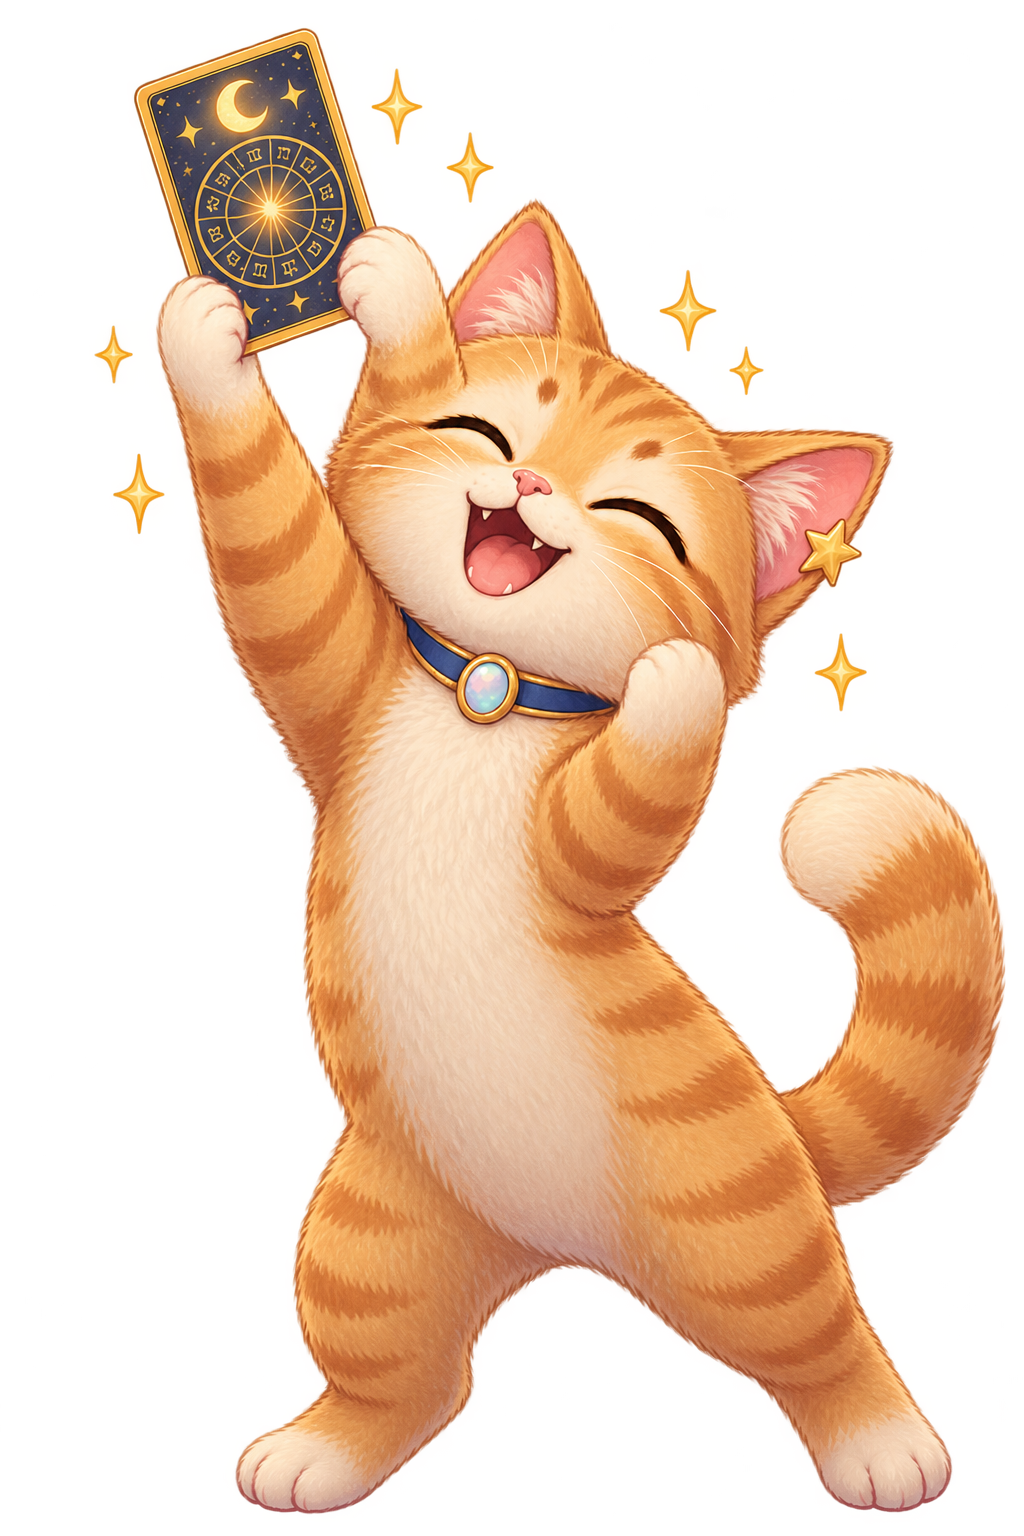
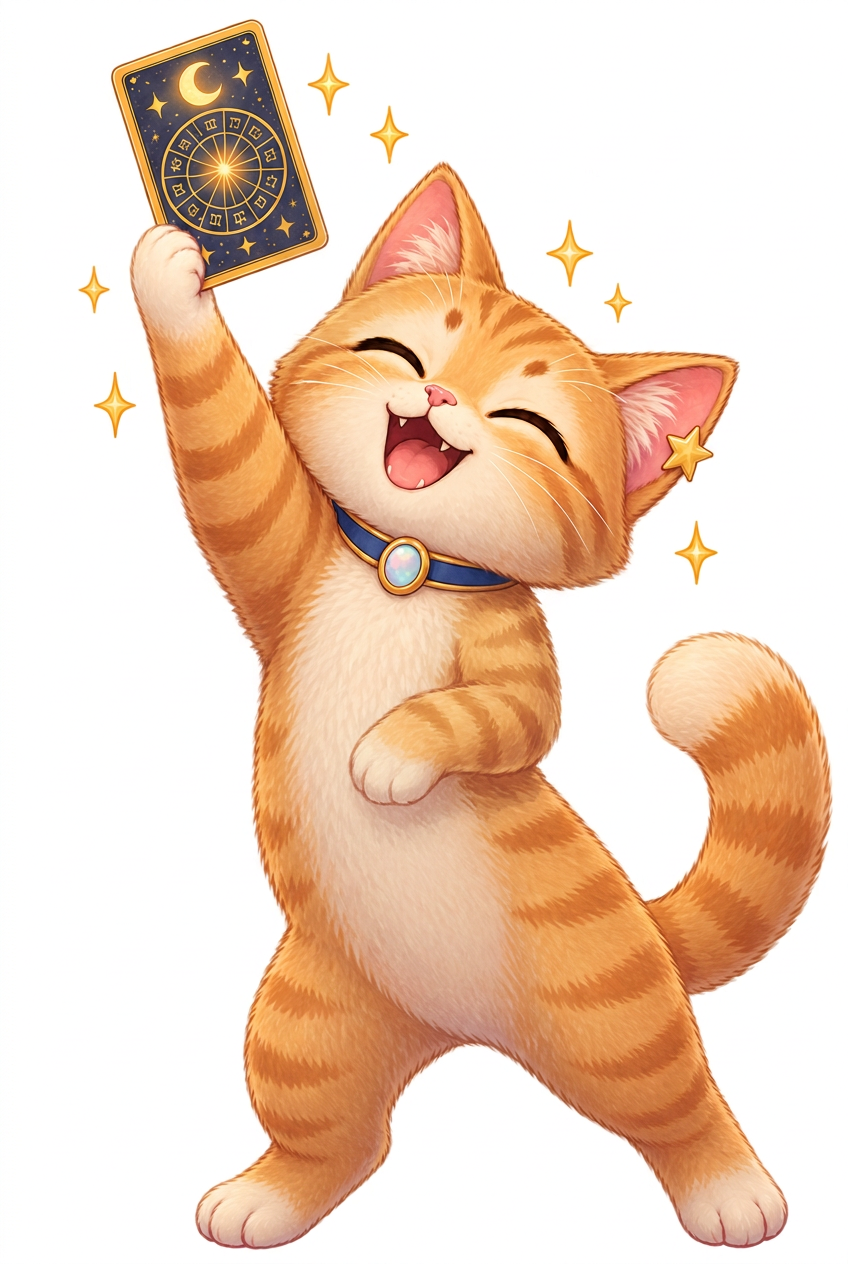
feat: update Mira artwork and assets for consistency and clarity

diff --git a/TASKS.md b/TASKS.md
@@ -38,26 +38,37 @@ Goal (see [concept.md](concept.md) §2, §3): Mira from the new character art (`
 
 ---
 
-## New pose art (2026-10-06)
+## New Mira art (2026-10-06) ✅
 
-- **Four new illustrations** in `artwork/` (calm, cautious, playful, radiant; 1024 × 1536, transparent, clean edges): cropped to the figure with a 16 px margin, scaled to 900 px height, WebP with alpha (115–167 KB) in `web/src/assets/poses/`. Much sharper than the first set; calm is now a meditating Mira without the card. Its own sparkles replace the app's generated twinkles. Checked in the pose gallery and on Today.
-- **Paths:** the source images moved to `artwork/`; README and concept updated (the key visual is `artwork/astrocat.png`). `mira-poses.png` (source of the current sleepy pose) is no longer in the repo; only `web/src/assets/poses/sleepy.webp` remains.
-- **Sleepy (added the same day):** `artwork/sleepy.png` (1145 × 1374), cropped and exported at 1000 px width (205 KB); the "z z z" sits above her head next to the ear star, as before. Checked in the pose gallery.
-- **Standing Mira (added the same day):** `artwork/standing.png` (1024 × 1536) replaces `web/src/assets/mira.webp` (900 px height, 112 KB) on login, onboarding and the loading screen. The loading effect was adjusted: a golden halo pulses *behind* the raised card (positioned for the new card; the old effect lit the card from the front, which only turned the dark card gray). All app images are now in one style.
-- **Not updated:** the app icons still show Mira's head from the first character art (`mira-character.png`).
+All Mira images in the app now come from one set of illustrations in `artwork/`, in one style: crisp outlines, a dark card with golden lines, no glow halo.
 
-### Prompts for the sleepy pose and the standing Mira (new style)
+| App image | Source in `artwork/` | Source size | App file | Export |
+| --- | --- | --- | --- | --- |
+| sleepy | `sleepy.png` | 1145 × 1374 | `web/src/assets/poses/sleepy.webp` | 1000 px wide (the pose is wide), 205 KB |
+| cautious | `cautious.png` | 1024 × 1536 | `web/src/assets/poses/cautious.webp` | 900 px high, 116 KB |
+| calm | `calm.png` | 1024 × 1536 | `web/src/assets/poses/calm.webp` | 900 px high, 167 KB |
+| playful | `playful.png` | 1024 × 1536 | `web/src/assets/poses/playful.webp` | 900 px high, 145 KB |
+| radiant | `radiant.png` (second version) | 848 × 1264 | `web/src/assets/poses/radiant.webp` | 900 px high, 84 KB |
+| standing (login, onboarding, loading) | `standing.png` | 1024 × 1536 | `web/src/assets/mira.webp` | 900 px high, 112 KB |
 
-Use one of the new images (e.g. `artwork/radiant.png`) as the reference. Common part:
+- **Processing:** crop to the visible figure (alpha > 8) with a 16 px margin, scale, WebP with alpha (`cwebp -q 85 -alpha_q 100`). All images are sharp on 3× phone screens.
+- **radiant.png has no transparency** (white background). It is cut out during the export: near-white pixels connected to the image border (whiteness < 45) become transparent, the edge is pulled in by one pixel and softened, and edge pixels are un-blended from white, so there is no light fringe on the dark sky. Checked up close at fur, belly, card and sparkles. The source file stays unchanged; a transparent export would make this step unnecessary.
+- **Effects in the app adjusted to the new art:**
+  - calm brings its own sparkles, so the app's generated twinkles are off for it; it is now a meditating Mira without the card.
+  - sleepy: the "z z z" sits above her head next to the ear star.
+  - Loading screen: a golden halo pulses *behind* the card the standing Mira holds up (the old effect lit the card from the front, which only turned the dark card gray).
+- **Checks:** pose gallery (`#/poses`), login, loading screen, and Today with real readings (radiant, playful) in WebKit/iPhone; type check, tests, build.
+- **Other files:** `artwork/astrocat.png` is the key visual (README, concept); `artwork/mira-character.png` is the first character art. `mira-poses.png` (the first pose set) is no longer in the repo.
+- **Not updated:** the app icons still show Mira's head from `mira-character.png` (see Deferred).
+
+### Prompts used for the sleepy pose and the standing Mira
+
+Kept for future images in the same style. Reference image: one of the new poses (e.g. `artwork/playful.png`). Common part:
 
 > Same character and style as the reference image: a young orange tabby cat named Mira with big amber eyes, a small pink nose, cream belly and paws, a dark blue collar with an opal gem, and a tiny golden star on her right ear. Clean, crisp storybook illustration with soft shading, no glow halo around her. Her horoscope card is dark navy with a thin golden border, a golden crescent moon and a golden zodiac wheel, **without any text**. Full body, centered, **transparent background**, no ground shadow, no text anywhere. Portrait format, 1024 × 1536.
 
-Pose-specific endings:
-
-- **sleepy** → save as `artwork/sleepy.png`: "Mira is curled up asleep on a small, soft white cloud, eyes closed, her tail wrapped around her, the card tucked under one paw."
-- **standing** → save as `artwork/standing.png`: "Mira stands on her hind legs and proudly holds the card up next to her face with one paw, the card face towards the viewer, a friendly closed-mouth smile."
-
-When they exist, the same steps as for the four poses apply (crop, 900 px, WebP). The standing image replaces `web/src/assets/mira.webp`; the glowing-card effect of the loading screen is positioned for the old card and needs a small adjustment then.
+- **sleepy:** "Mira is curled up asleep on a small, soft white cloud, eyes closed, her tail wrapped around her, the card tucked under one paw."
+- **standing:** "Mira stands on her hind legs and proudly holds the card up next to her face with one paw, the card face towards the viewer, a friendly closed-mouth smile."
 
 ## Day switch and Ollama fixes (2026-10-03)
 

diff --git a/concept.md b/concept.md
@@ -114,7 +114,7 @@
 Login and onboarding show the standing Mira from `artwork/standing.png`, holding up her card. While a reading is generated, she "reads the stars": a golden halo pulses behind her card and two stars circle slowly.
 
 **Assets:**
-- **Sources** in `artwork/`: `standing.png` and the five poses `sleepy.png`, `cautious.png`, `calm.png`, `playful.png`, `radiant.png` (single illustrations, 2026-10-06), all in one style: crisp outlines, a dark card with golden lines, no glow halo. `mira-character.png` is the first character art; the app icons still come from it. No text in images (§2).
+- **Sources** in `artwork/`: `standing.png` and the five poses `sleepy.png`, `cautious.png`, `calm.png`, `playful.png`, `radiant.png` (single illustrations, 2026-10-06), all in one style: crisp outlines, a dark card with golden lines, no glow halo. Sources should have a transparent background (`radiant.png` has a white one, removed during the export, see [TASKS.md](TASKS.md)). `mira-character.png` is the first character art; the app icons still come from it. No text in images (§2).
 - **App files:** `web/src/assets/mira.webp` (standing Mira, from `standing.png`) and `web/src/assets/poses/<pose>.webp`. A pose image replaces the standing Mira for that pose automatically; without one, the app falls back to the standing Mira with generated effects (dimming, clouds, an orbiting star, sparkles).
 - **Resolution:** the poses are exported at 900 px height (sleepy, which is wide: 1000 px width), sharp on 3× phone screens, 110–205 KB each (the standing Mira likewise).
 - **Motion:** CSS only (no Rive or Lottie needed); all animation stops with the system setting "reduce motion".
